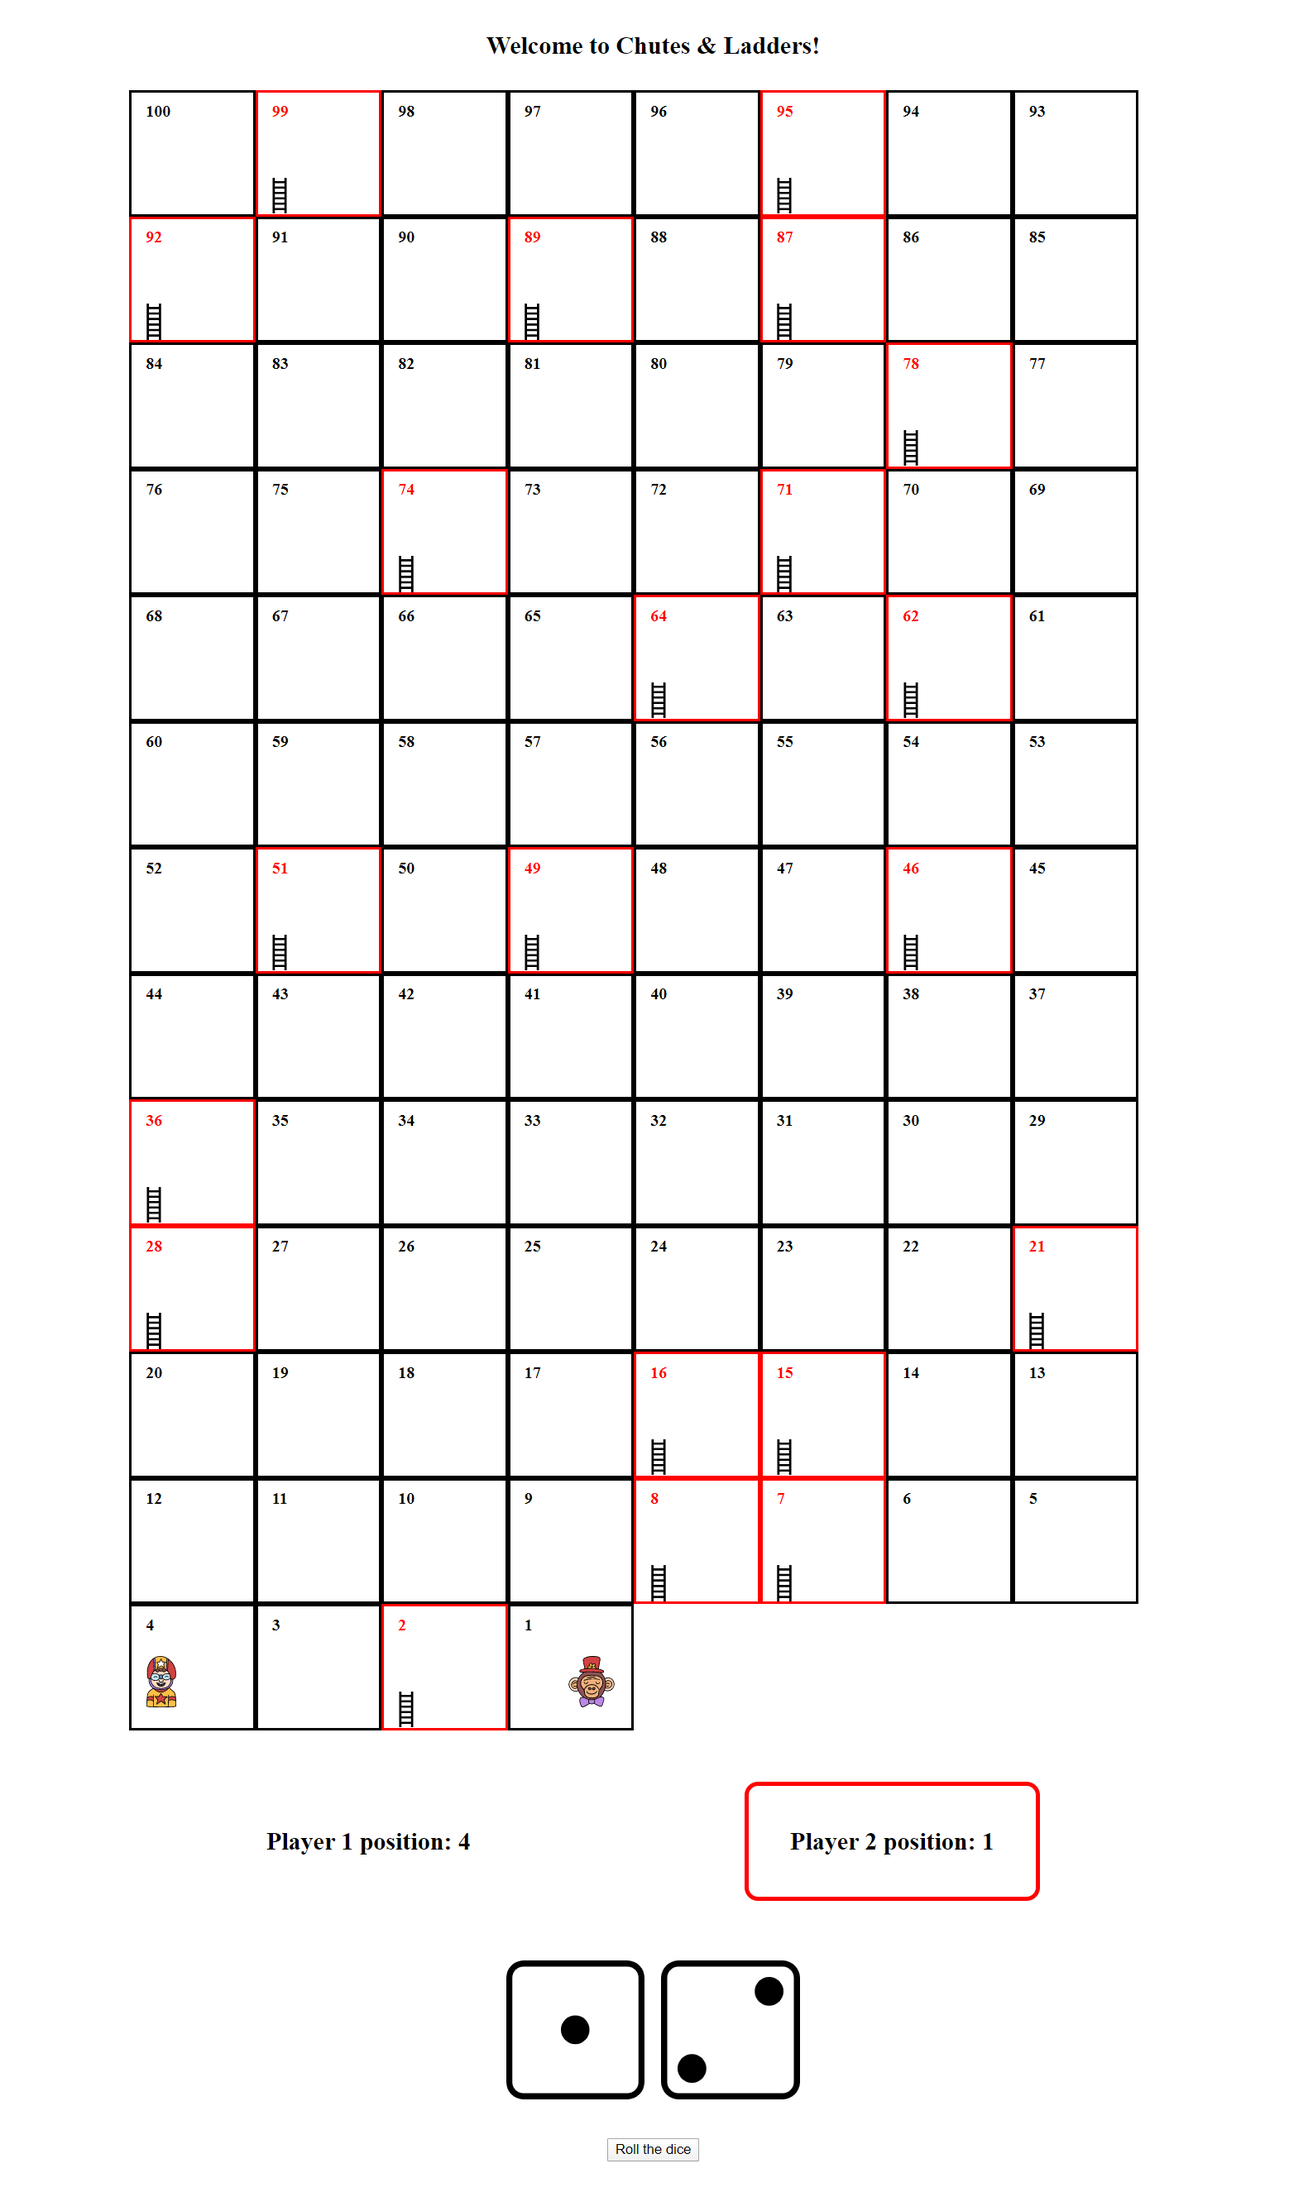
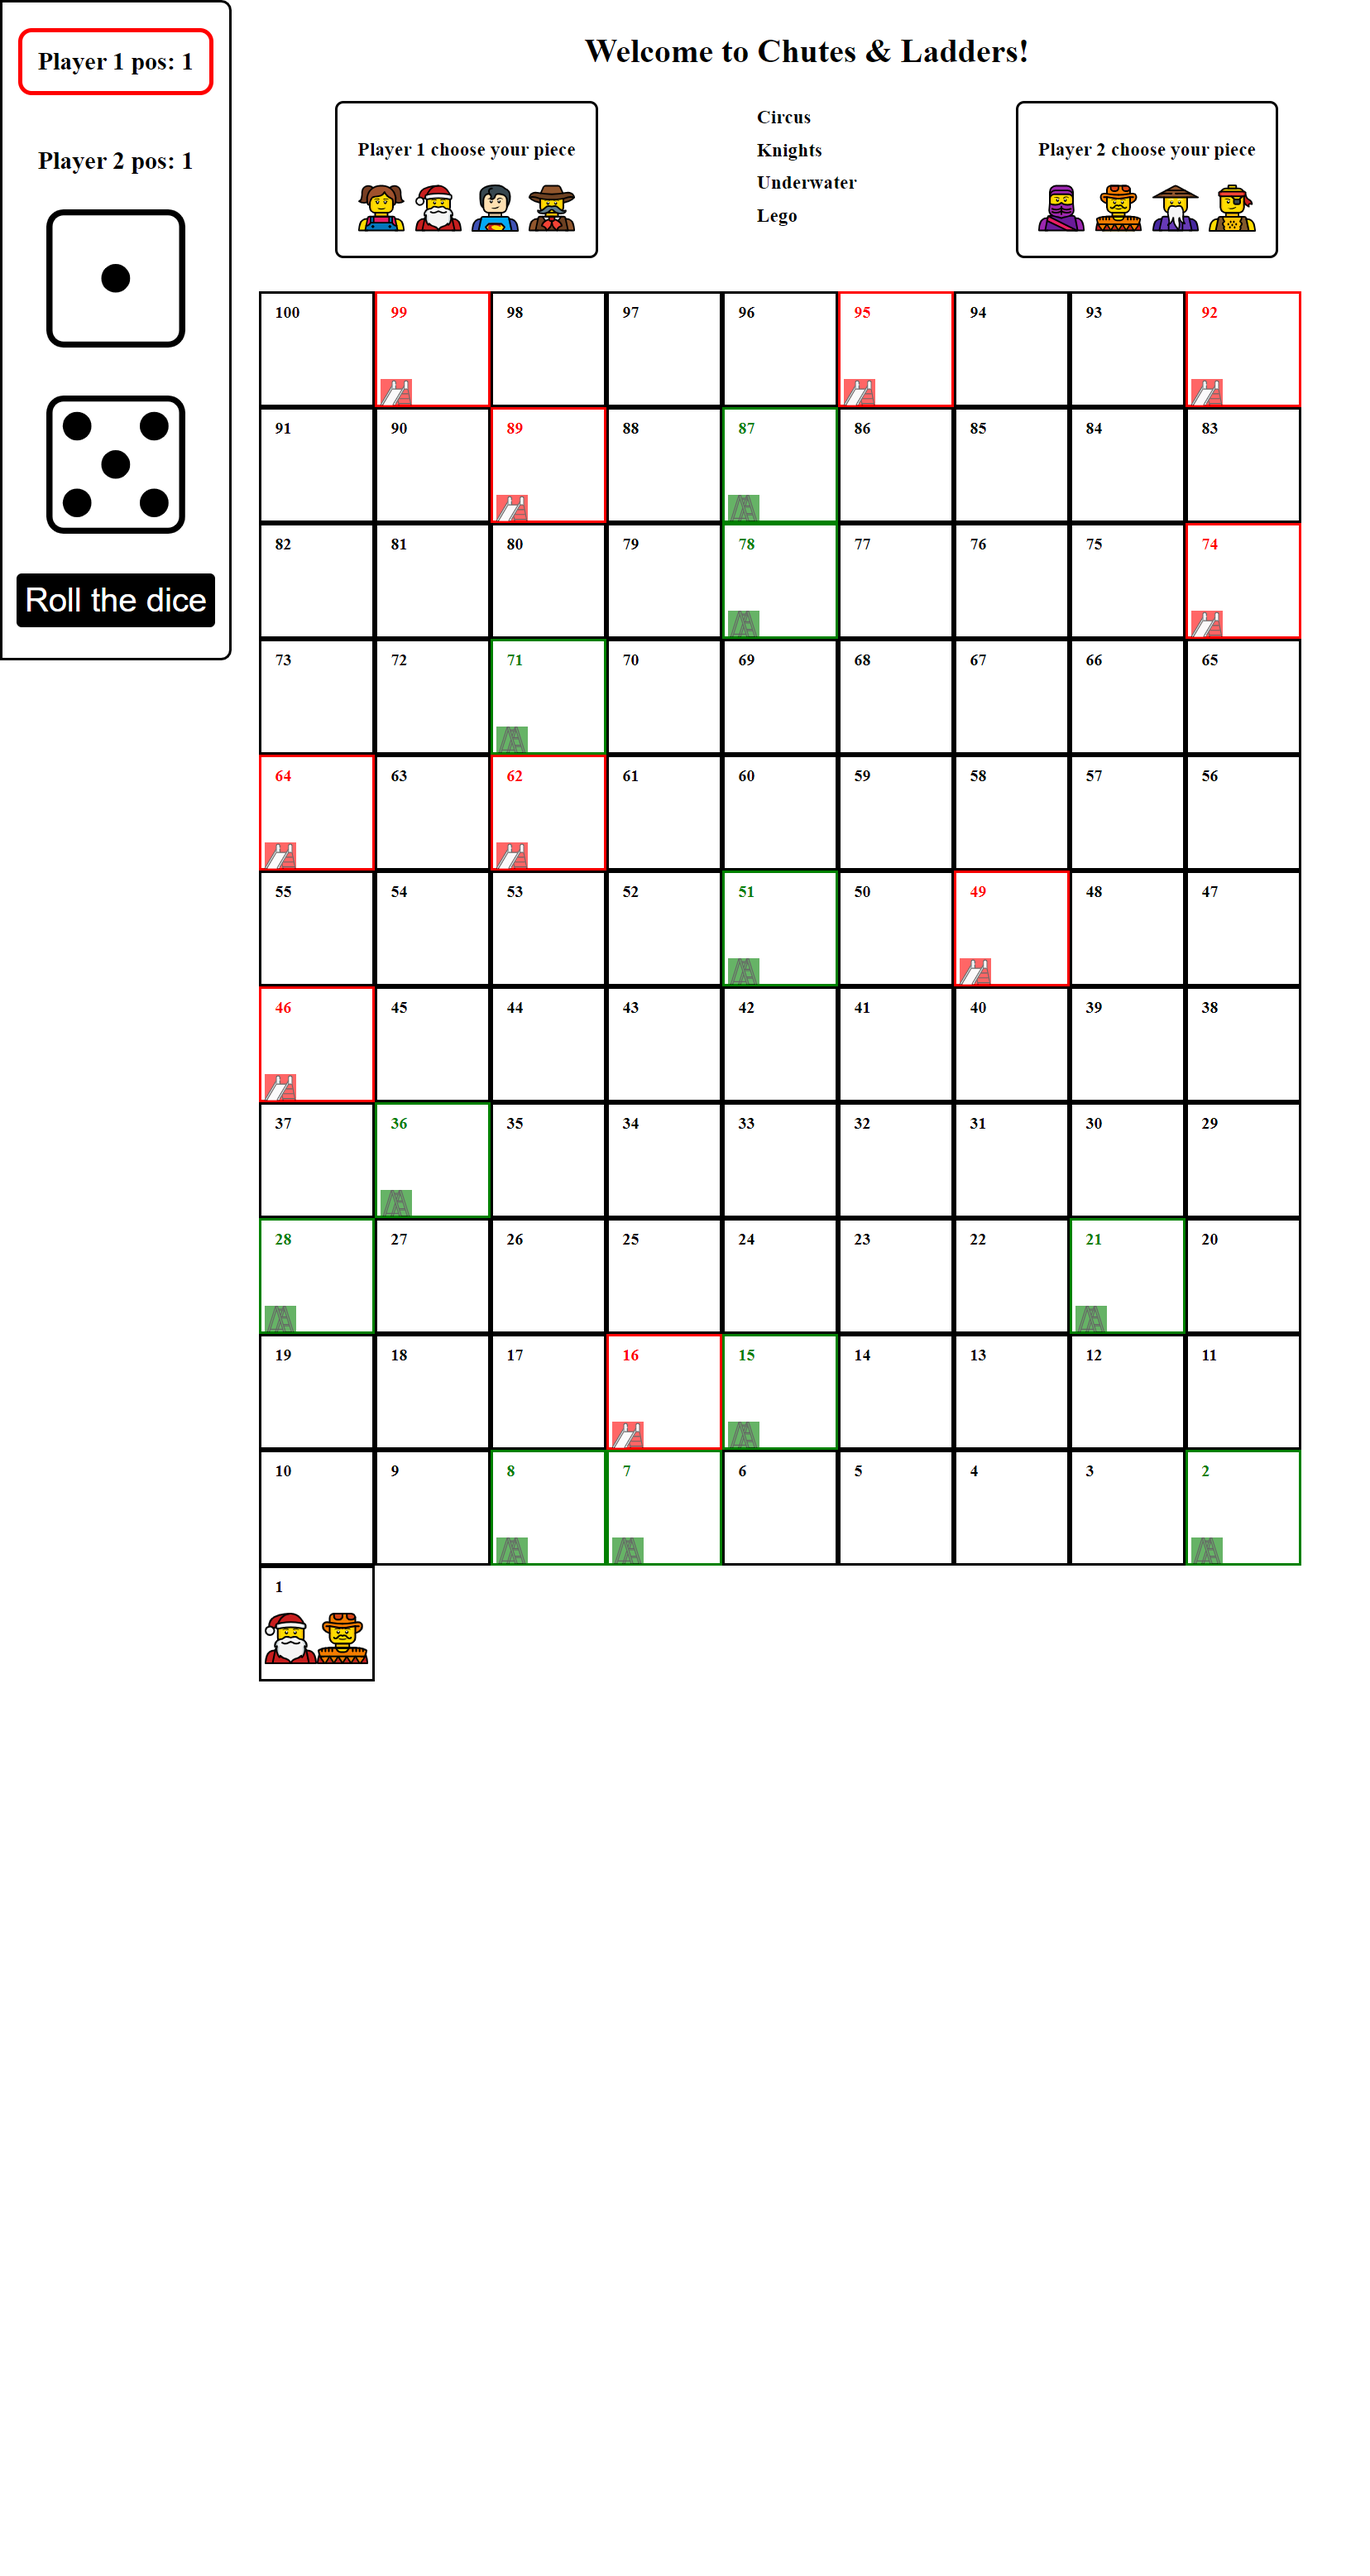
Updated screenshot

diff --git a/chutes_ladder.js b/chutes_ladder.js
@@ -50,7 +50,7 @@ window.addEventListener('DOMContentLoaded', (event) => {
         players.player1 = 1;
         players.player2 = 1;
         players.player1Turn = true;
-        choosePieces("circus")
+        choosePieces("lego")
         generateBoard();
         displayPositions();
         pieces.player1Piece = document.getElementById('player1Piece');
@@ -100,9 +100,9 @@ window.addEventListener('DOMContentLoaded', (event) => {
                 let piece1 = document.createElement('img')
                 let piece2 = document.createElement('img')
                 piece1.id = 'player1Piece';
-                piece1.src = '/images/circus/piece-7.svg';
+                piece1.src = '/images/lego/piece-7.svg';
                 piece2.id = 'player2Piece';
-                piece2.src = '/images/circus/piece-3.svg';
+                piece2.src = '/images/lego/piece-3.svg';
                 image.appendChild(piece1);
                 image.appendChild(piece2);
             }

diff --git a/README.md b/README.md
@@ -12,7 +12,7 @@ The game is simple enough but I wanted a visualization of the game instead of pl
 ![Screenshot](/images/screenshot.png)
 
 ### Areas of improvement
-1. Allowing players to choose a piece 
+~~1. Allowing players to choose a piece~~
 2. Allowing players to upload a picture of them to use as the piece
 3. Build the chute from one square to another
 4. Build the ladder from one square to another
